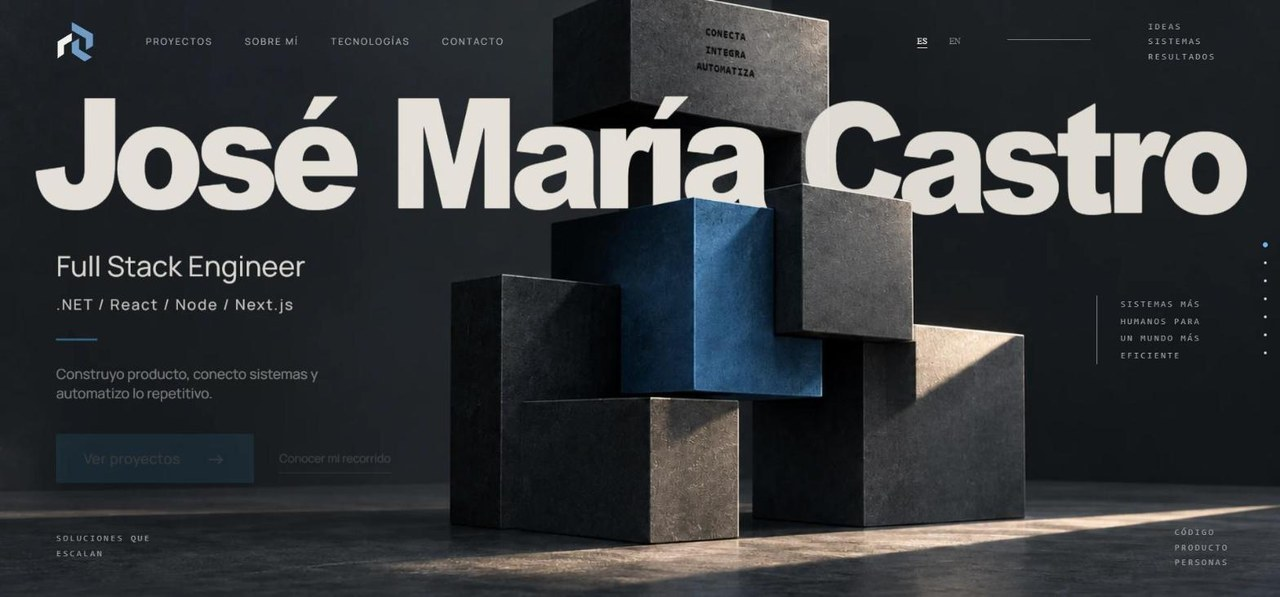
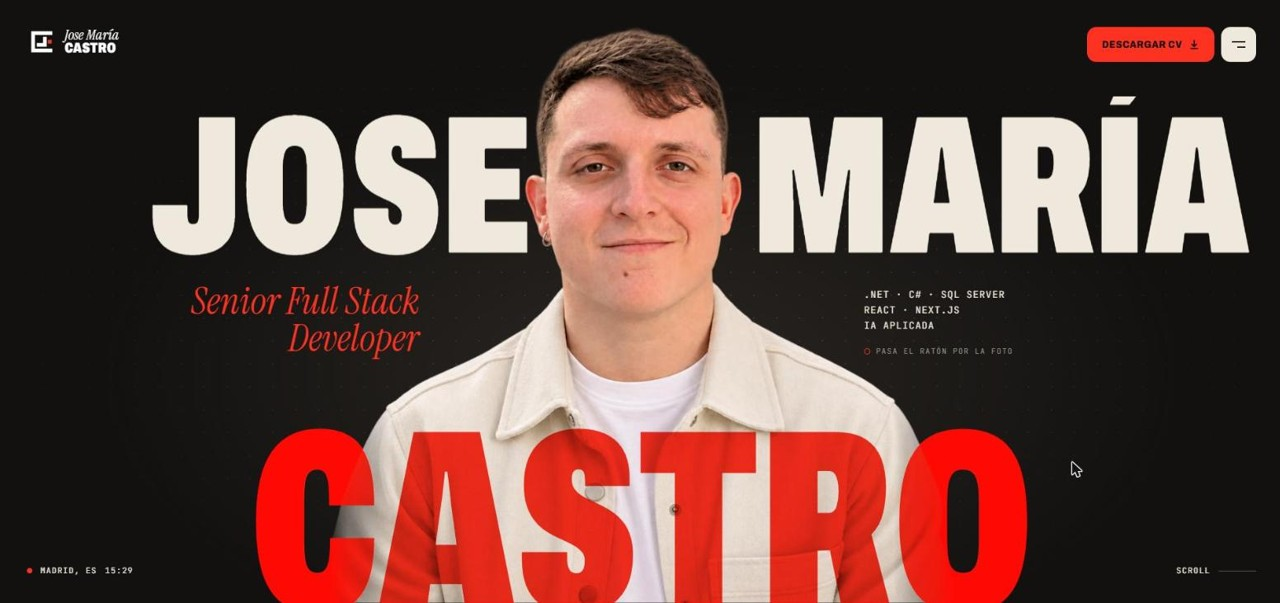
Actualiza el README y sus imágenes a la web nueva.

diff --git a/README.md b/README.md
@@ -1,5 +1,5 @@
 <p align="center">
-  <img src="docs/portada.jpg" alt="josemcastro.dev · Portfolio personal · React 19, Vite, GSAP, Cloudflare Pages" width="100%">
+  <img src="docs/portada.jpg" alt="josemcastro.dev · Portfolio personal · Vite, GSAP, Cloudflare Pages" width="100%">
 </p>
 
 # josemcastro.dev
@@ -10,15 +10,16 @@ Código de mi portfolio personal: [josemcastro.dev](https://josemcastro.dev).
   <a href="https://josemcastro.dev"><img src="docs/screenshot.jpg" alt="Portada de josemcastro.dev" width="100%"></a>
 </p>
 
-Soy José María Castro, desarrollador full stack (.NET, React, Node.js). En la web están mi experiencia, los proyectos en los que he trabajado y un formulario de contacto.
+Soy Jose María Castro, Senior Full Stack Developer (.NET, React, IA). En la web están mi experiencia, los proyectos en los que he trabajado, mis apps publicadas y un formulario de contacto.
 
 ## Stack
 
-- **React 19** y **Vite 6**, sin framework por encima.
-- **GSAP** para las animaciones.
-- **Prerenderizado propio**: tras el build, `scripts/prerender.mjs` renderiza la página a HTML y la inyecta en `dist/index.html`, para que buscadores y asistentes de IA lean el contenido sin ejecutar JavaScript.
+- **Vite 6** con varias páginas HTML y **JavaScript sin framework**: la portada y la página de desarrollo web son HTML estático, legible por buscadores y asistentes de IA sin ejecutar nada.
+- **GSAP** (ScrollTrigger, ScrollSmoother y SplitText) para las animaciones ligadas al scroll.
+- **Canvas 2D** para el retrato de la portada: al pasar el ratón, una lente lo redibuja con líneas de código cuyo tono sale de la propia foto.
+- **Fuentes alojadas en el propio sitio** con Fontsource (Archivo, Instrument Serif y JetBrains Mono), sin peticiones a terceros.
 - **Cloudflare Pages** para el alojamiento y **Pages Functions** para el formulario de contacto (`functions/api/contact.js`), que envía el correo con Resend.
-- Español e inglés, con datos estructurados (JSON-LD) y `llms.txt`.
+- Datos estructurados (JSON-LD) y `llms.txt`. La página de desarrollo web está en español e inglés.
 
 ## Desarrollo
 
@@ -28,7 +29,7 @@ npm run dev
 ```
 
 ```bash
-npm run build     # build de cliente + SSR + prerenderizado
+npm run build
 npm run preview
 ```
 
@@ -45,8 +46,8 @@ El formulario de contacto necesita dos variables en Cloudflare Pages. No hay nin
 
 | Ruta | Contenido |
 |---|---|
-| `src/` | Componentes y estilos |
-| `public/` | Imágenes, fuentes y la landing de desarrollo web en Alcobendas |
+| `index.html` | Portada |
+| `desarrollo-web-alcobendas.html`, `en/` | Página de desarrollo web, en español e inglés |
+| `src/v2/` | Estilos y scripts de las páginas actuales |
+| `public/` | Imágenes, favicon, CV y páginas de privacidad y confirmación |
 | `functions/api/` | Función del formulario de contacto |
-| `scripts/` | Prerenderizado |
-| `DESIGN.md` | Sistema visual: colores, tipografía y criterios de diseño |
